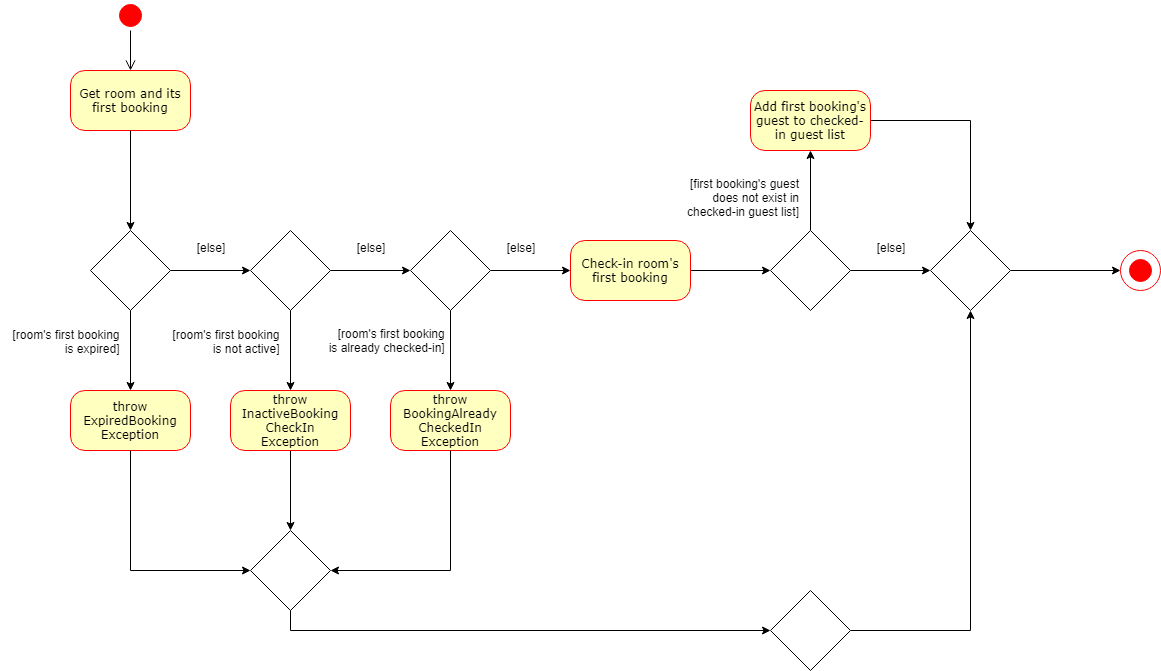
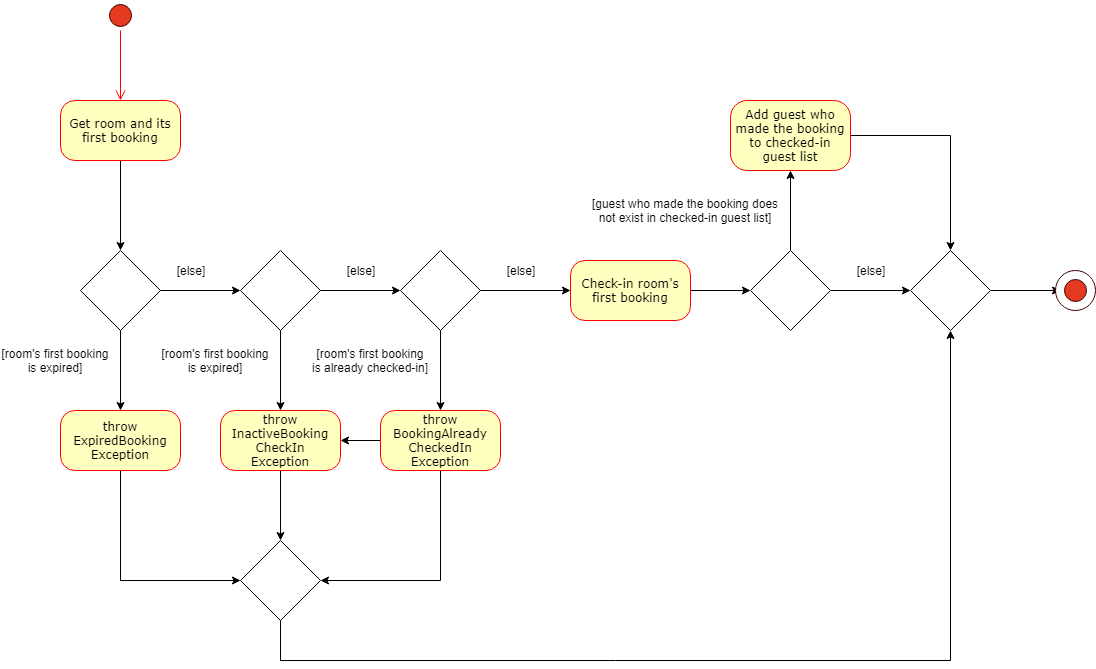
[v1.4] Docs update (#257)
* UG: update checkin/out, ContactUs: update email

* PPP: update

* asciidoctor: remove line 381 - fixes html links appearing in pdf

* DG: add update UML diagrams

* fix style

* update name as shown in IVLE

* PPP: add terminology

diff --git a/docs/stylesheets/asciidoctor.css b/docs/stylesheets/asciidoctor.css
@@ -378,7 +378,6 @@ p{margin-bottom:1.25rem}
 *{-webkit-box-shadow:none!important;box-shadow:none!important;text-shadow:none!important}
 a{color:inherit!important;text-decoration:underline!important}
 a.bare,a[href^="#"],a[href^="mailto:"]{text-decoration:none!important}
-a[href^="http:"]:not(.bare):after,a[href^="https:"]:not(.bare):after{content:"(" attr(href) ")";display:inline-block;font-size:.875em;padding-left:.25em}
 abbr[title]:after{content:" (" attr(title) ")"}
 pre,blockquote,tr,img,object,svg{page-break-inside:avoid}
 thead{display:table-header-group}
